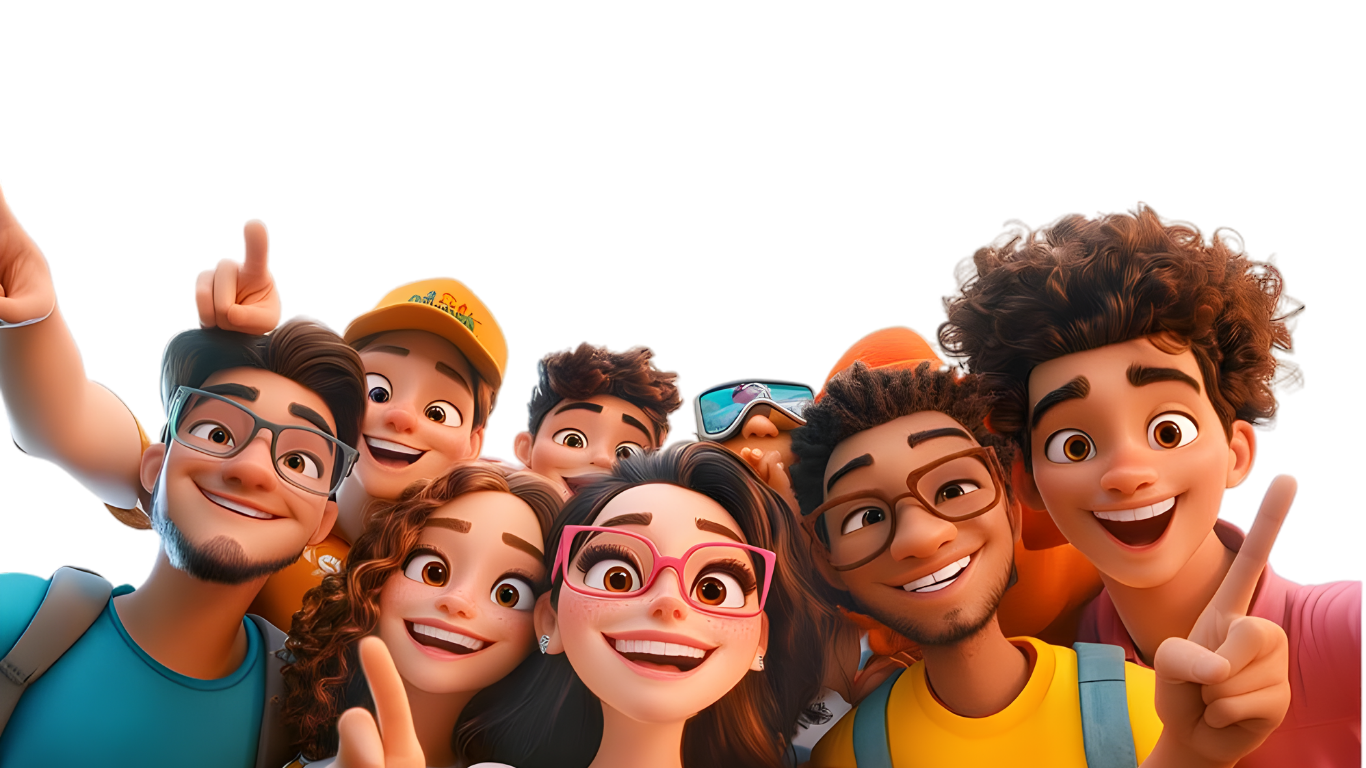
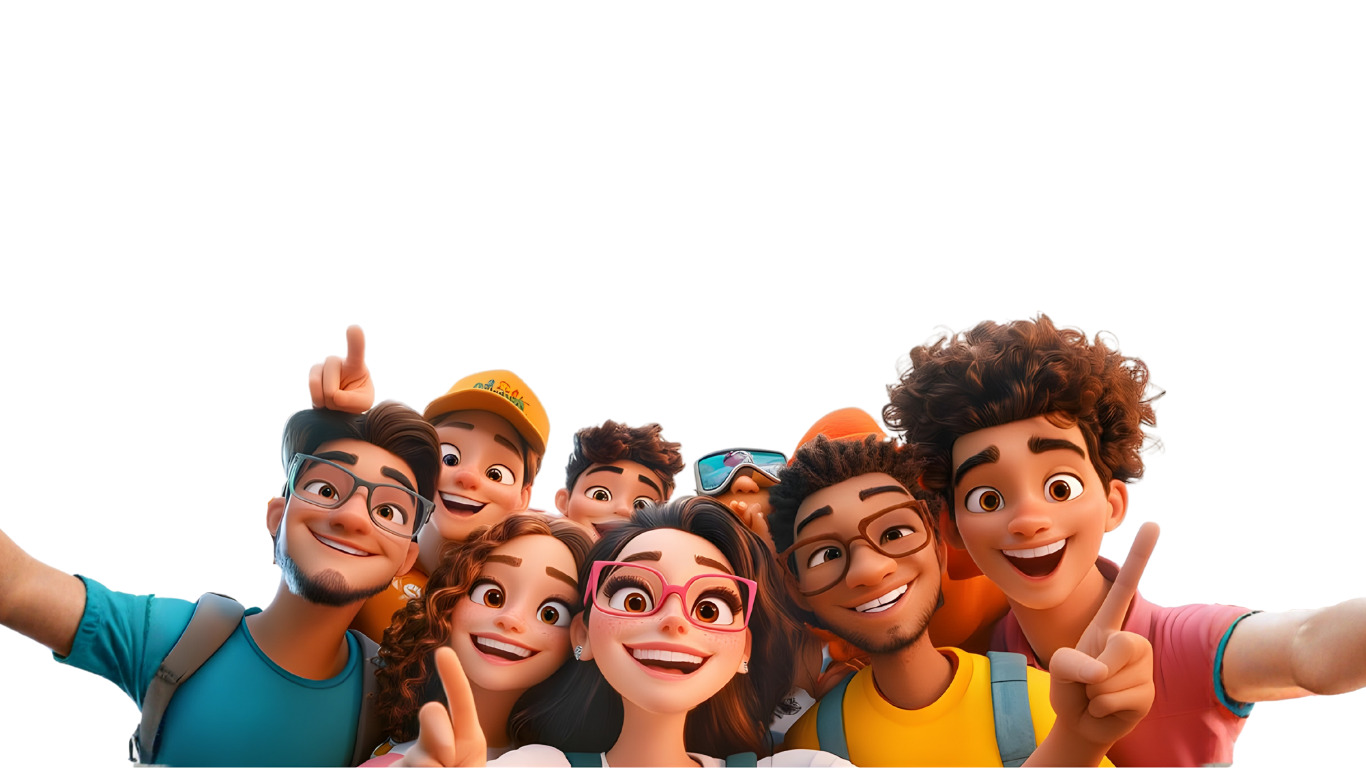
hero section modified with claud ai

diff --git a/src/components/Hero.tsx b/src/components/Hero.tsx
@@ -1,46 +1,98 @@
 import { Button } from "@/components/ui/button";
 import heroImage from "@/assets/everyone.png";
 import { ArrowRight } from "lucide-react";
+import { useEffect, useState } from "react";
 
 const Hero = () => {
+  const [displayedSubText, setDisplayedSubText] = useState("");
+  const subText = "Connect with like-minded students for fun, friendships, and future opportunities.";
+  
+  useEffect(() => {
+    let index = 0;
+    const timer = setInterval(() => {
+      if (index <= subText.length) {
+        setDisplayedSubText(subText.slice(0, index));
+        index++;
+      } else {
+        clearInterval(timer);
+      }
+    }, 30);
+    
+    return () => clearInterval(timer);
+  }, []);
+
   return (
-    <section className="pt-32 pb-20 px-4 sm:px-6 lg:px-8">
-      <div className="container mx-auto text-center">
-        <div className="max-w-4xl mx-auto space-y-8">
-          {/* Hero Headline */}
-          <h1 className="text-4xl sm:text-5xl lg:text-6xl xl:text-7xl font-bold text-foreground leading-tight">
-            Empower Your Community,
+    <section className="relative h-screen overflow-hidden">
+      {/* Background Image - Full Screen */}
+      <div className="absolute inset-0 w-full h-full">
+        <img
+          src={heroImage}
+          alt="Diverse group of people learning together"
+          className="w-full h-full object-cover object-center"
+        />
+        {/* Overlay for better text readability */}
+        <div className="absolute inset-0 bg-gradient-to-b from-white/50 via-white/20 to-transparent"></div>
+      </div>
+
+      {/* Content Container - Top of Image */}
+      <div className="relative z-10 h-full flex items-start justify-center pt-24 sm:pt-28 lg:pt-32 px-4">
+        <div className="max-w-4xl mx-auto text-center space-y-2">
+          {/* Hero Headline - Two Lines */}
+          <h1 className="text-3xl sm:text-4xl lg:text-5xl font-bold text-gray-900 leading-tight">
+            Find Your Tribe,
             <br />
-            <span className="text-primary">Learn AI Together.</span>
+            Build Your Network.
           </h1>
 
-          {/* Sub-headline */}
-          <p className="text-lg sm:text-xl text-muted-foreground max-w-3xl mx-auto leading-relaxed">
-            Join a statewide mission to make AI learning accessible for students, educators, 
-            and communities across Kerala. Hands-on, fun, and beginner-friendly.
+          {/* Sub-headline with Typewriter */}
+          <p className="text-sm sm:text-base lg:text-lg text-gray-700 max-w-xl mx-auto leading-relaxed pt-1 min-h-[60px] sm:min-h-[50px]">
+            {displayedSubText}
+            <span className="animate-pulse">|</span>
           </p>
 
-          {/* CTAs */}
-          <div className="flex flex-col sm:flex-row items-center justify-center gap-4 pt-4">
-            <Button size="lg" className="text-base px-8 group">
-              Join the Campaign
-              <ArrowRight className="ml-2 h-4 w-4 group-hover:translate-x-1 transition-transform" />
+          {/* Single CTA with Breathing Animation */}
+          <div className="pt-3 opacity-0 animate-fade-in" style={{ animationDelay: '3s', animationFillMode: 'forwards' }}>
+            <Button 
+              size="lg" 
+              className="text-sm sm:text-base px-8 sm:px-10 py-5 sm:py-6 rounded-full bg-black text-white hover:bg-gray-900 shadow-2xl animate-breathe"
+            >
+              Explore
             </Button>
-            <Button size="lg" variant="outline" className="text-base px-8">
-              Explore More
-            </Button>
-          </div>
-
-          {/* Hero Image */}
-          <div className="pt-12 animate-fade-in">
-            <img
-              src={heroImage}
-              alt="Diverse group of people learning together"
-              className="w-full max-w-5xl mx-auto rounded-2xl shadow-2xl"
-            />
           </div>
         </div>
       </div>
+
+      <style>{`
+        @keyframes breathe {
+          0%, 100% {
+            transform: scale(1);
+            box-shadow: 0 20px 25px -5px rgb(0 0 0 / 0.1), 0 8px 10px -6px rgb(0 0 0 / 0.1);
+          }
+          50% {
+            transform: scale(1.05);
+            box-shadow: 0 25px 50px -12px rgb(0 0 0 / 0.25);
+          }
+        }
+        
+        @keyframes fade-in {
+          from {
+            opacity: 0;
+            transform: translateY(10px);
+          }
+          to {
+            opacity: 1;
+            transform: translateY(0);
+          }
+        }
+        
+        .animate-breathe {
+          animation: breathe 3s ease-in-out infinite;
+        }
+        
+        .animate-fade-in {
+          animation: fade-in 0.8s ease-out;
+        }
+      `}</style>
     </section>
   );
 };
